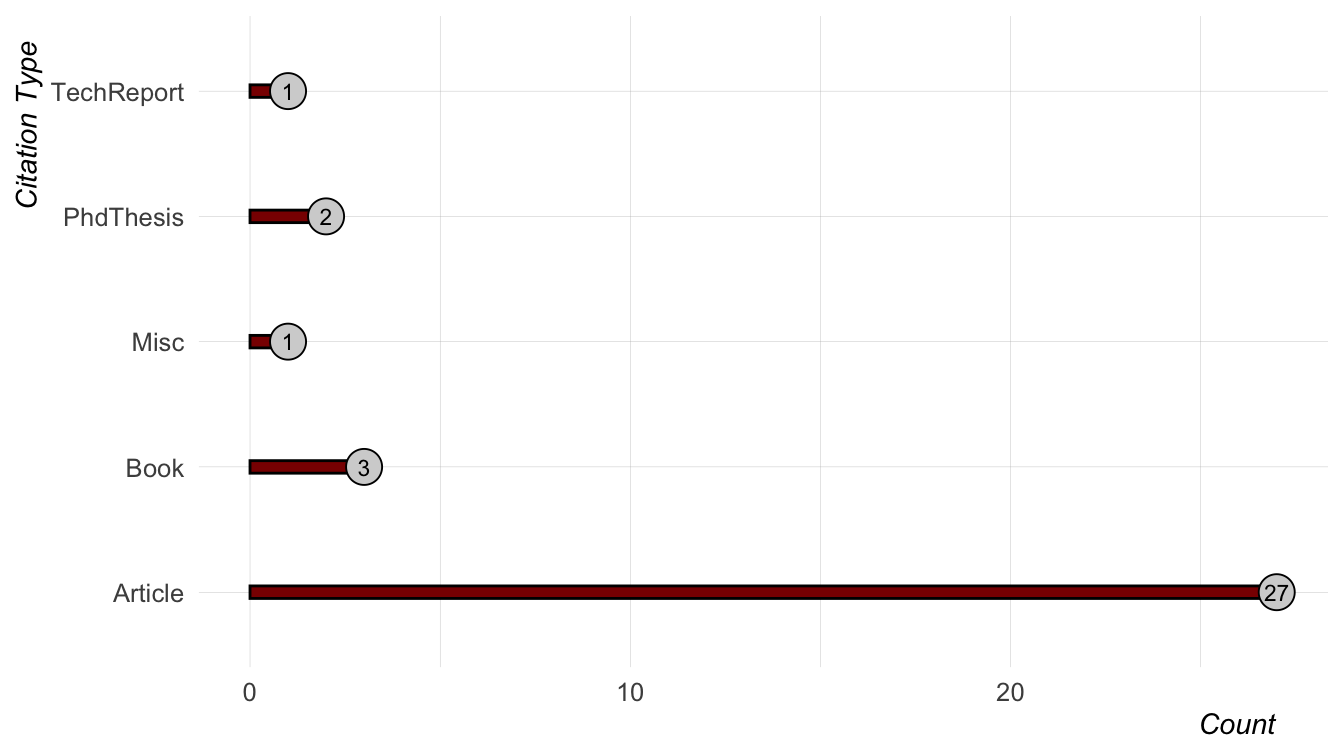
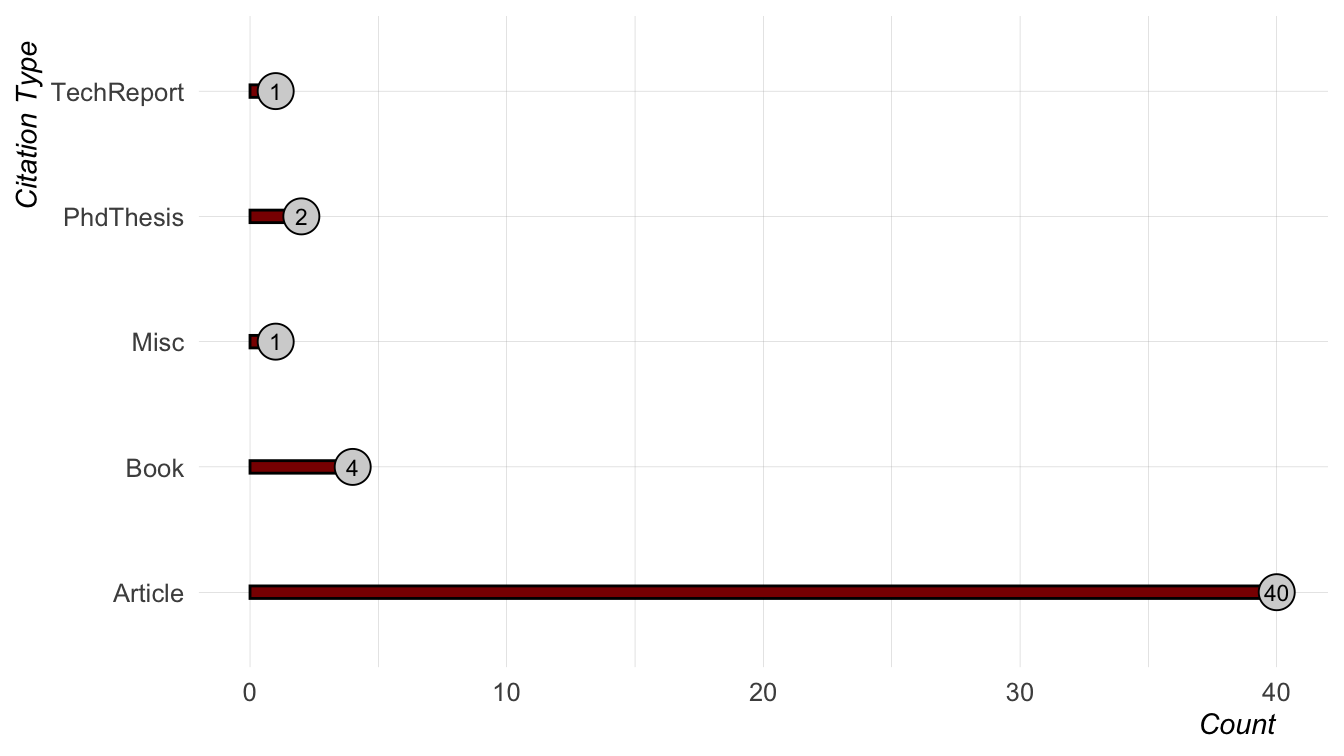
june 28 updates

diff --git a/README.md b/README.md
@@ -1,6 +1,6 @@
 # Sound communities references
 Joseph V. Casillas
-2024-06-20
+2024-06-28
 
 ## Citation Types
 
@@ -41,6 +41,25 @@ Amengual, Mark. 2018. “Asymmetrical Interlingual Influence in the
 Production of Spanish and English Laterals as a Result of Competing
 Activation in Bilingual Language Processing.” *Journal of Phonetics* 69:
 12–28. <https://doi.org/10.1016/j.wocn.2018.04.002>.
+
+</div>
+
+<div id="ref-antoniou2012two" class="csl-entry">
+
+Antoniou, Mark, Michael D. Tyler, and Catherine T. Best. 2012. “Two Ways
+to Listen: Do L2-Dominant Bilinguals Perceive Stop Voicing According to
+Language Mode?” *Journal of Phonetics* 40 (4): 582–94.
+<https://doi.org/10.1016/j.wocn.2012.05.005>.
+
+</div>
+
+<div id="ref-bahrick1994" class="csl-entry">
+
+Bahrick, Harry P., Lynne K. Hall, John P. Goggin, Lorraine E. Bahrick,
+and Stephanie A. Berger. 1994. “Fifty Years of Language Maintenance and
+Language Dominance in Bilingual Hispanic Immigrants.” *Journal of
+Experimental Psychology: General* 123 (3): 264–83.
+<https://doi.org/10.1037/0096-3445.123.3.264>.
 
 </div>
 
@@ -166,11 +185,27 @@ Spanish of Southern Arizona.” PhD thesis, University of Arizona.
 
 </div>
 
+<div id="ref-dunn2009quick" class="csl-entry">
+
+Dunn, Alexandra L., and Jean E. Fox Tree. 2009. “A Quick, Gradient
+Bilingual Dominance Scale.” *Bilingualism: Language and Cognition* 12
+(3): 273–89. <https://doi.org/10.1017/S1366728909990113>.
+
+</div>
+
 <div id="ref-ellis2010essential" class="csl-entry">
 
 Ellis, Paul D. 2010. *The Essential Guide to Effect Sizes: Statistical
 Power, Meta-Analysis, and the Interpretation of Research Results*.
 Cambridge university press. <https://doi.org/10.1017/CBO9780511761676>.
+
+</div>
+
+<div id="ref-flege2002assessing" class="csl-entry">
+
+Flege, James E., Ian R. A. MacKay, and Thorsten Piske. 2002. “Assessing
+Bilingual Dominance.” *Applied Psycholinguistics* 23 (4): 567–98.
+<https://doi.org/10.1017/S0142716402004046>.
 
 </div>
 
@@ -222,6 +257,25 @@ Two Monolinguals in One Person.” *Brain and Language* 36 (1): 3–15.
 
 </div>
 
+<div id="ref-hamann2019" class="csl-entry">
+
+Hamann, Cornelia, Esther Rinke, and Dobrinka Genevska-Hanke. 2019.
+“Editorial: Bilingual Language Development: The Role of Dominance.”
+*Frontiers in Psychology* 10: 1064.
+<https://doi.org/10.3389/fpsyg.2019.01064>.
+
+</div>
+
+<div id="ref-kartushina2019third" class="csl-entry">
+
+Kartushina, Natalia, and Clara D. Martin. 2019. “Third-Language Learning
+Affects Bilinguals’ Production in Both Their Native Languages: A
+Longitudinal Study of Dynamic Changes in L1, L2 and L3 Vowel
+Production.” *Journal of Phonetics* 77: 1–21.
+<https://doi.org/10.1016/j.wocn.2019.100920>.
+
+</div>
+
 <div id="ref-kelly2022change" class="csl-entry">
 
 Kelly, Niamh. 2022. “Change Across Time in L2 Intonation Vs. Segments: A
@@ -248,6 +302,32 @@ Consequences of Bilingualism for Language Processing and Cognition.”
 
 </div>
 
+<div id="ref-lambert1955" class="csl-entry">
+
+Lambert, Wallace E. 1955. “Measurement of the Linguistic Dominance of
+Bilinguals.” *The Journal of Abnormal and Social Psychology* 50 (2):
+197–200. <https://doi.org/10.1037/h0042120>.
+
+</div>
+
+<div id="ref-li2006language" class="csl-entry">
+
+Li, Ping, Sara Sepanski, and Xiaowei Zhao. 2006. “Language History
+Questionnaire: A Web-Based Interface for Bilingual Research.” *Behavior
+Research Methods* 38 (2): 202–10. <https://doi.org/10.3758/BF03192770>.
+
+</div>
+
+<div id="ref-lim2008determining" class="csl-entry">
+
+Lim, Valerie P. C., Susan J. Rickard Liow, Michelle Lincoln, Yiong Huak
+Chan, and Mark Onslow. 2008. “Determining Language Dominance in
+English-Mandarin Bilinguals: Development of a Self-Report Classification
+Tool for Clinical Use.” *Applied Psycholinguistics* 29 (3): 389–412.
+<https://doi.org/10.1017/S0142716408080181>.
+
+</div>
+
 <div id="ref-lozano2021conceptually" class="csl-entry">
 
 Lozano-Argüelles, Cristina, Laura Fernández Arroyo, Nicole Rodrı́guez,
@@ -259,11 +339,40 @@ Jessica P Varela, Núria de Rocafiguera, and Joseph V Casillas. 2021.
 
 </div>
 
+<div id="ref-luk2013bilingualism" class="csl-entry">
+
+Luk, Gigi, and Ellen Bialystok. 2013. “Bilingualism Is Not a Categorical
+Variable: Interaction Between Language Proficiency and Usage.” *Journal
+of Cognitive Psychology* 25 (5): 605–21.
+<https://doi.org/10.1080/20445911.2013.795574>.
+
+</div>
+
 <div id="ref-lynn2023" class="csl-entry">
 
 Lynn, Klonda. 2023. “A Phonetic Analysis of the English Spoken by
 Mexican Children in the Elementary Schools of Arizona.” PhD thesis,
 Louisiana State University; Agricultural & Mechanical College.
+
+</div>
+
+<div id="ref-marian2007leapq" class="csl-entry">
+
+Marian, Viorica, Henrike K. Blumenfeld, and Margarita Kaushanskaya.
+2007. “The Language Experience and Proficiency Questionnaire (LEAP-Q):
+Assessing Language Profiles in Bilinguals and Multilinguals.” *Journal
+of Speech, Language, and Hearing Research* 50 (4): 940–67.
+<https://doi.org/10.1044/1092-4388(2007/067)>.
+
+</div>
+
+<div id="ref-pena2014dynamic" class="csl-entry">
+
+Peña, Elizabeth D., Ronald B. Gillam, and Lisa M. Bedore. 2014. “Dynamic
+Assessment of Narrative Ability in English Accurately Identifies
+Language Impairment in English Language Learners.” *Journal of Speech,
+Language, and Hearing Research* 57 (6): 2208–20.
+<https://doi.org/10.1044/2014_JSLHR-L-13-0151>.
 
 </div>
 
@@ -307,6 +416,24 @@ Stuart-Smith, Jane, Morgan Sonderegger, Tamara Rathcke, and Rachel
 Macdonald. 2015. “The Private Life of Stops: VOT in a Real-Time Corpus
 of Spontaneous Glaswegian.” *Laboratory Phonology* 6 (3-4): 505–49.
 <https://doi.org/10.1515/lp-2015-0015>.
+
+</div>
+
+<div id="ref-lourido2019effects" class="csl-entry">
+
+Tomé Lourido, Gisela, and Bronwen Evans. 2019. “The Effects of Language
+Dominance Switch in Bilinguals: Galician New Speakers’ Speech Production
+and Perception.” *Bilingualism: Language and Cognition* 22 (3): 637–54.
+<https://doi.org/10.1017/S1366728918000603>.
+
+</div>
+
+<div id="ref-treffers2016language" class="csl-entry">
+
+Treffers-Daller, Jeanine, and Carmen Silva-Corvalán. 2016. *Language
+Dominance in Bilinguals: Issues of Measurement and Operationalization*.
+Cambridge, UK: Cambridge University Press.
+<https://doi.org/10.1017/CBO9781107375345>.
 
 </div>
 
